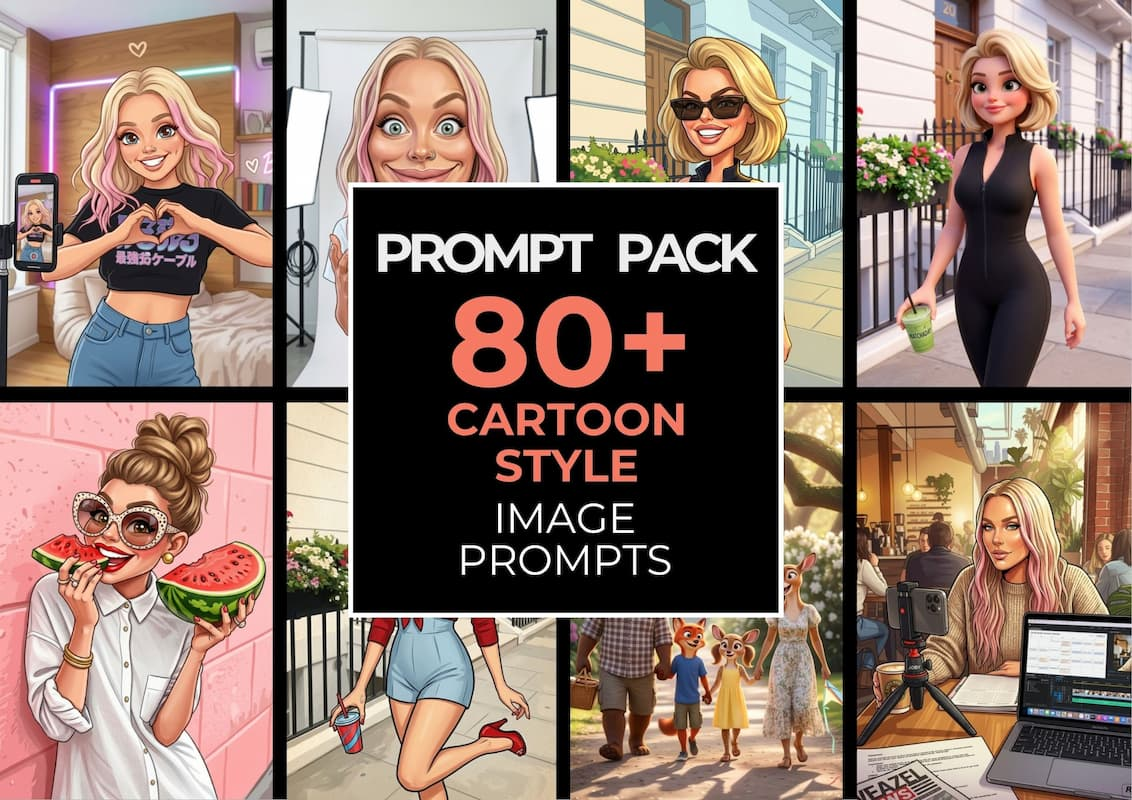
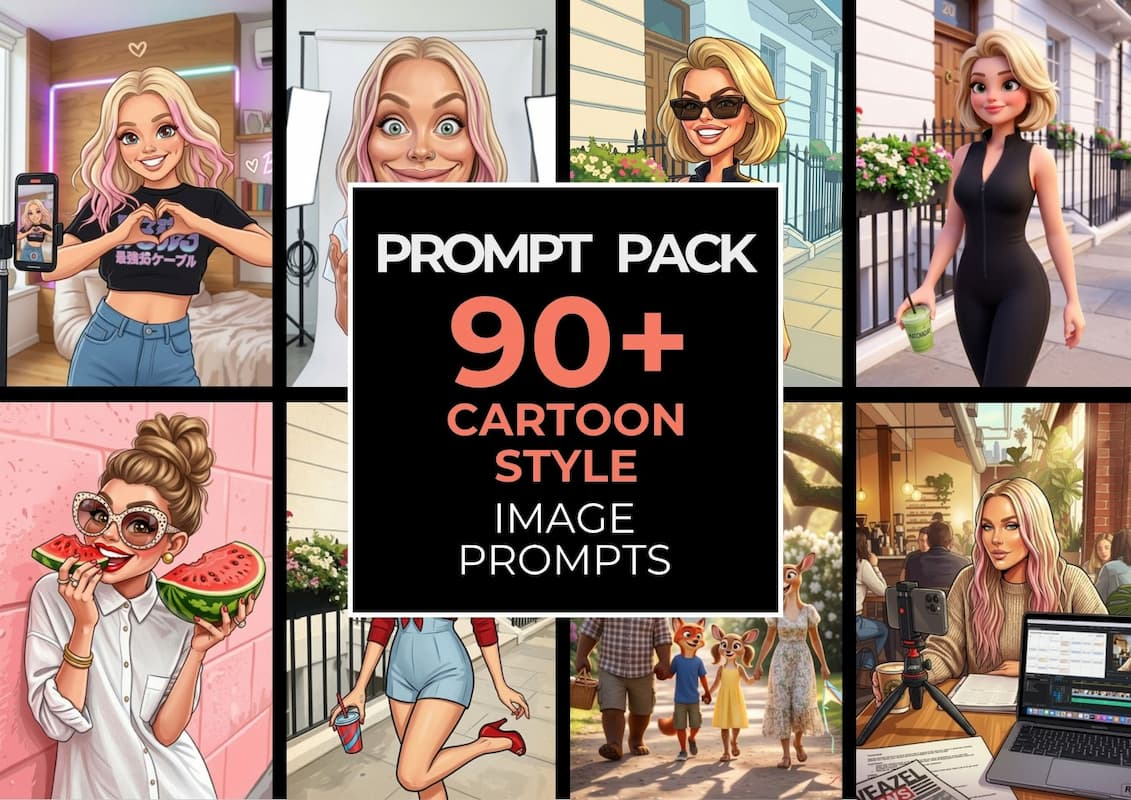
Update cartoon-style-image-prompts

diff --git a/src/content/promptbooks/index.ts b/src/content/promptbooks/index.ts
@@ -495,7 +495,7 @@ export const PROMTBOOKS: Record<string, PromptBookRaw> = {
   "cartoon-style-image-prompts": {
     id: 44,
     gumroadSlug: "cartoon-style-image-prompts",
-    number: 80,
+    number: 90,
     isGrowing: true,
     tags: ["design"],
     mainCategory: "design",